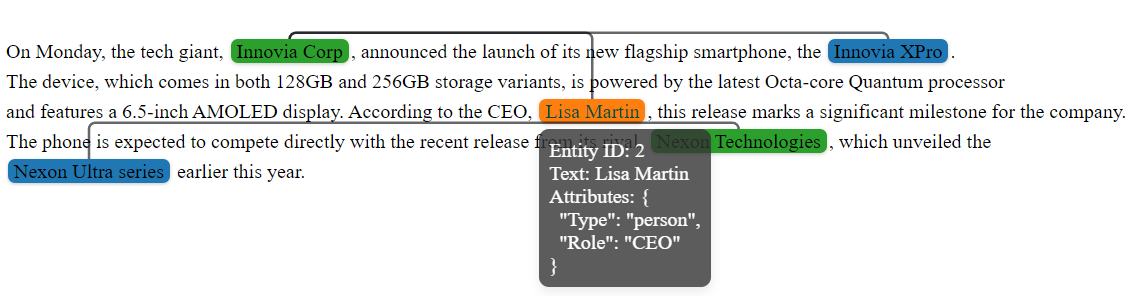
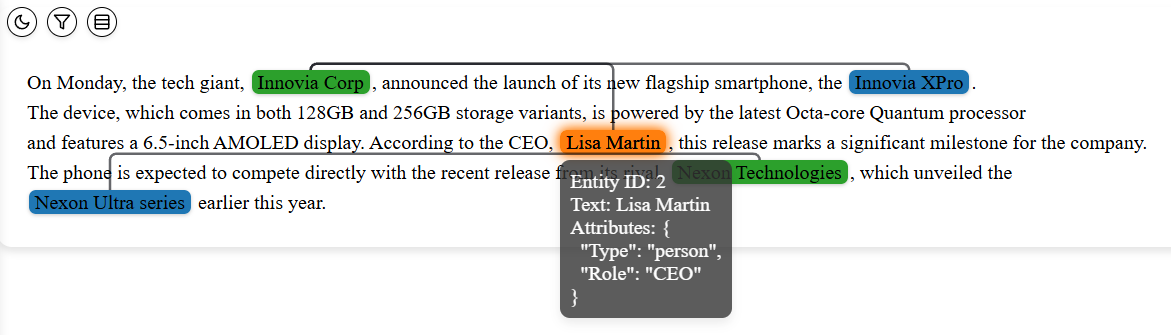
doc

Changed region(s): [[0.0, 0.0912, 0.9799, 0.973], [0.0, 0.0, 0.1225, 0.1216]]

diff --git a/README.md b/README.md
@@ -18,12 +18,18 @@ The **ie-viz** is a lightweight tool for in-line information extraction (IE) vis
 
 | Features | Support |
 |----------|----------|
-| **Named Entity Marks** | :white_check_mark: with customizable colors |
-| **Entity Attributes** | :white_check_mark: as tooltip |
-| **Entity Relations** | :white_check_mark: as path linking entities |
+| **Named Entity Marks** | :white_check_mark: with customizable colors and table view |
+| **Entity Attributes** | :white_check_mark: as tooltip and table view |
+| **Entity Relations** | :white_check_mark: as path linking entities and table view |
+| **Filtering**| :white_check_mark: by entity types |
 | **Theme** | :white_check_mark: light and dark themes |
 | **Deployment** | :white_check_mark: Flask APP or HTML rendering |
 
+The filtering feature supports OR and AND logic for all available entity attributes. The table panel (collapsible) displays the selected entities, attributes, and relations.  
+<p align="center">
+  <img src="doc_asset/readme_img/filter.PNG" width="45%">
+  <img src="doc_asset/readme_img/side_tables.PNG" width="45%">
+</p>
 
 ## Prerequisite
 - python ^3.11
